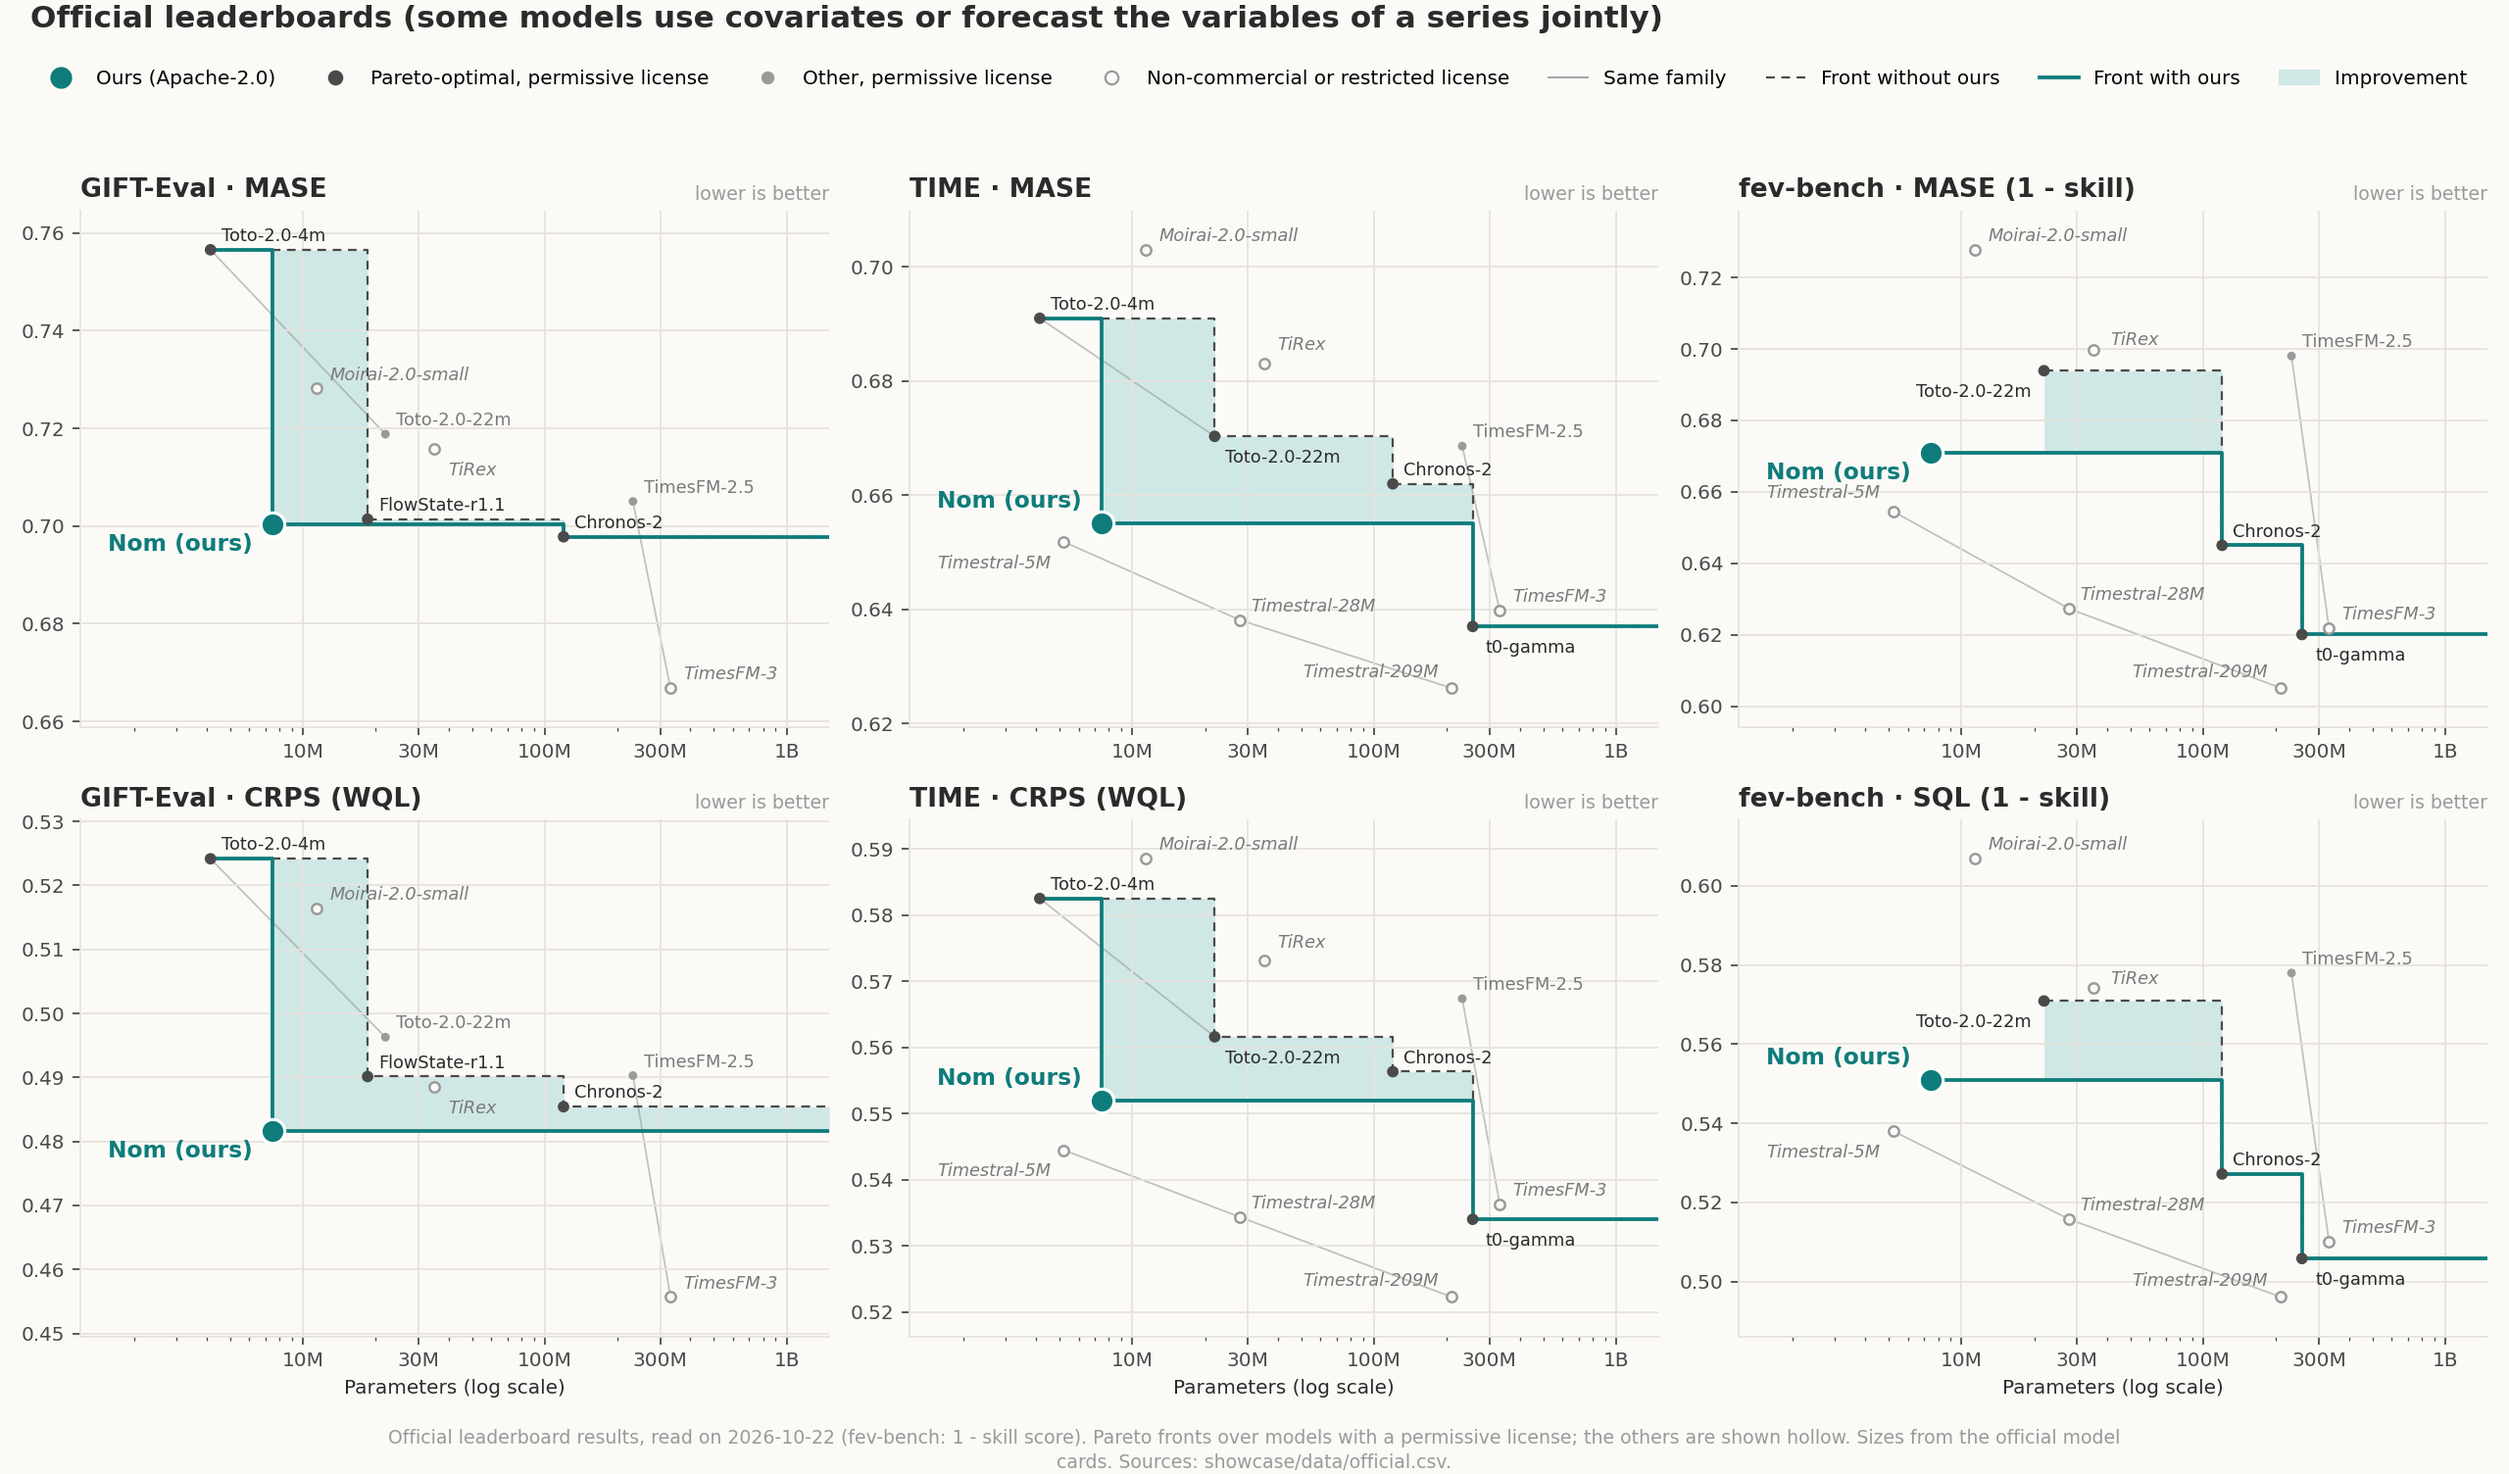
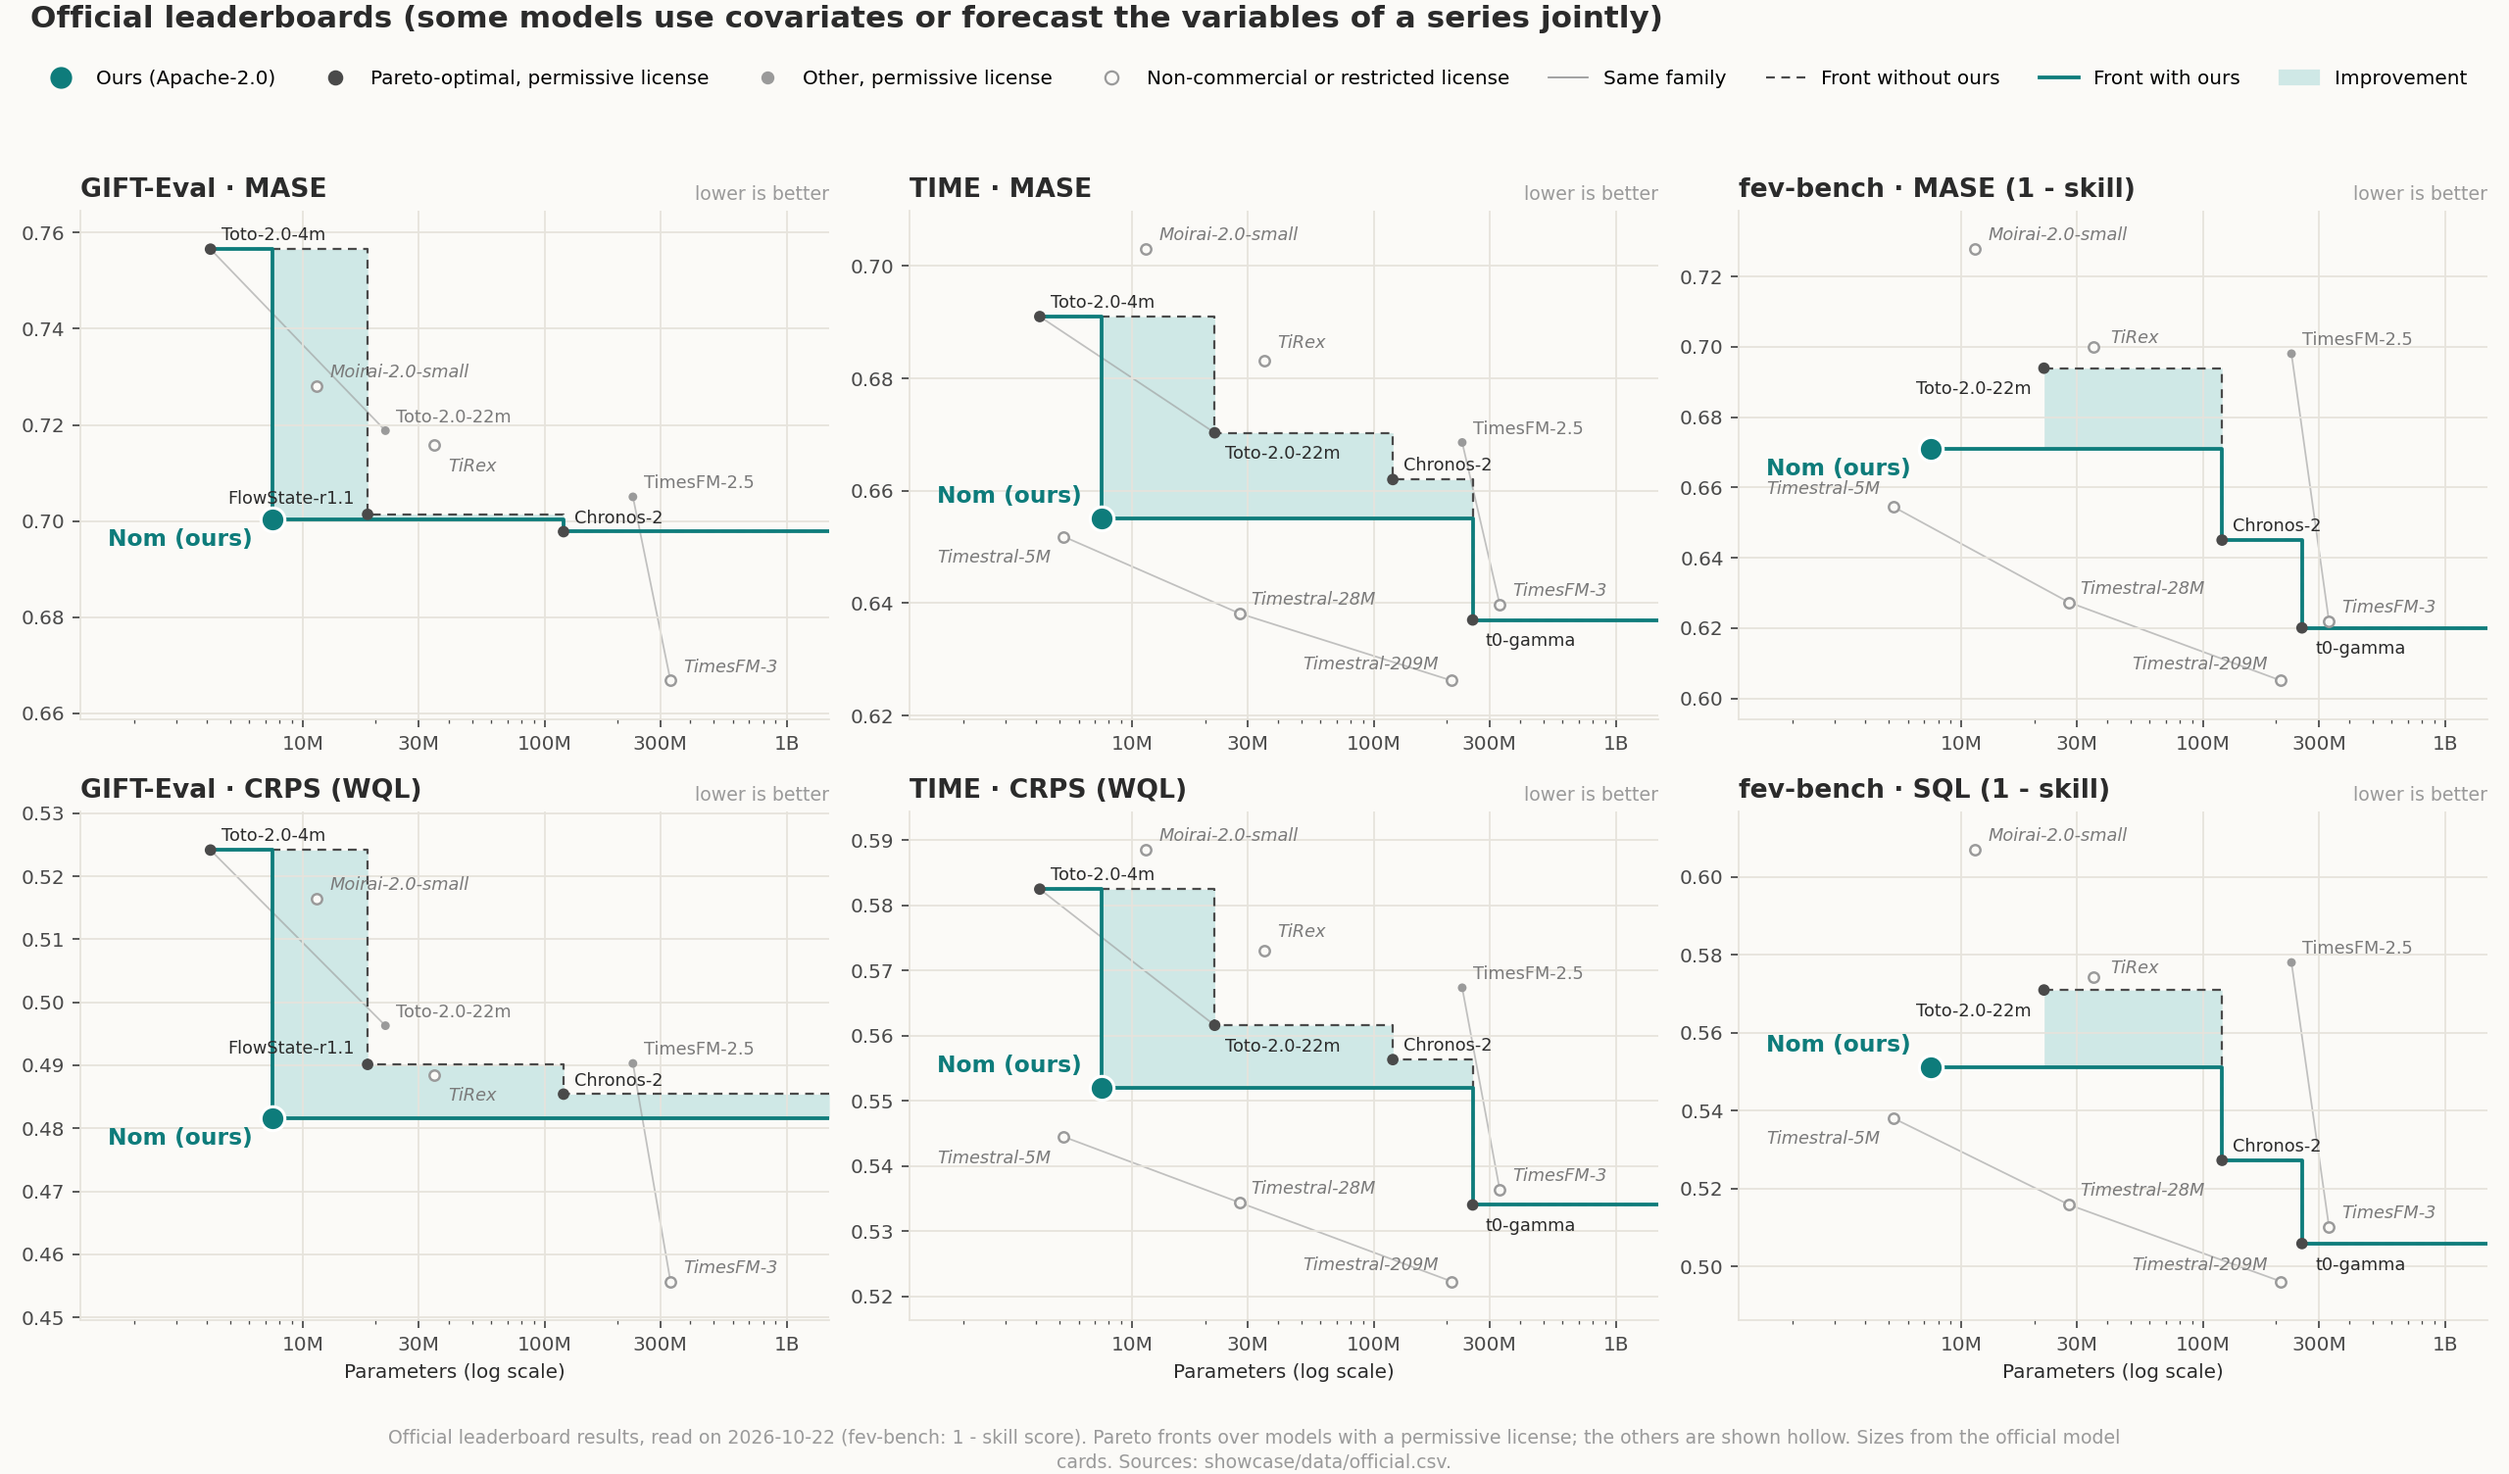
Univariate figure: FlowState-r1.1 and Moirai-2.0 (univariate by design, sources quoted), Toto-2.0-4m added to the forced runs; t0-gamma and TimesFM-3 noted as covariate models

diff --git a/showcase/render.py b/showcase/render.py
@@ -42,7 +42,8 @@ def _style(plt):
 LABEL_OFFSETS = {"t0-gamma": (-6, -12, "right"), "TimesFM-3": (6, 4, "left"), "Toto-2.0-22m": (5, -12, "left"),
                  "TiRex": (6, 6, "left"), "Timestral-5M": (-6, 6, "right"), "Timestral-209M": (6, -12, "left"),
                  "Moirai-2.0-small": (6, 4, "left")}
-LABEL_OFFSETS_BY_BENCH = {"GIFT-Eval": {"Toto-2.0-22m": (5, 4, "left"), "TiRex": (6, -12, "left")},
+LABEL_OFFSETS_BY_BENCH = {"GIFT-Eval": {"Toto-2.0-22m": (5, 4, "left"), "TiRex": (6, -12, "left"),
+                                        "FlowState-r1.1": (-6, 5, "right")},
                           "TIME": {"t0-gamma": (6, -12, "left"), "Timestral-209M": (-6, 5, "right"),
                                    "Timestral-5M": (-6, 6, "right")},
                           "fev-bench": {"t0-gamma": (6, -12, "left"), "Timestral-209M": (-6, 5, "right"),
@@ -55,8 +56,10 @@ OFFICIAL_NOTE = ("Official leaderboard results, read on 2026-10-22 (fev-bench: 1
                  "Sources: showcase/data/official.csv.")
 UNIVARIATE_TITLE = "Univariate setting: every model forecasts each series alone, without covariates"
 UNIVARIATE_NOTE = ("Our runs of each model in forced univariate mode with its public package (benchmarks/competitors.yaml); "
-                   "TiRex and TimesFM-2.5, univariate by design, from their official results. Pareto fronts over models "
-                   "with a permissive license; the others hollow. Sources: showcase/data/univariate.csv.")
+                   "TiRex, TimesFM-2.5, FlowState-r1.1 and Moirai-2.0, univariate by design, from their official results. "
+                   "t0-gamma and TimesFM-3 use covariates and were not run in this setting: see the official leaderboards "
+                   "figure. Pareto fronts over models with a permissive license; the others hollow. "
+                   "Sources: showcase/data/univariate.csv.")
 
 
 def pareto_figure(rows, models, ours_name, path, title=OFFICIAL_TITLE, note=OFFICIAL_NOTE):
@@ -149,8 +152,9 @@ def pareto_figure(rows, models, ours_name, path, title=OFFICIAL_TITLE, note=OFFI
     fig.suptitle(title, x=0.012, y=0.997, ha="left", fontsize=14, fontweight="bold", color=INK)
     fig.legend(handles=handles, loc="upper center", ncol=8, frameon=False, fontsize=9, bbox_to_anchor=(0.5, 0.965))
     import textwrap
-    fig.text(0.5, 0.004, "\n".join(textwrap.wrap(note, 190)), ha="center", fontsize=8.5, color=GREY, linespacing=1.4)
-    fig.tight_layout(rect=(0, 0.035, 1, 0.93))
+    lines = textwrap.wrap(note, 190)
+    fig.text(0.5, 0.004, "\n".join(lines), ha="center", fontsize=8.5, color=GREY, linespacing=1.4)
+    fig.tight_layout(rect=(0, 0.012 + 0.017 * len(lines), 1, 0.93))     # room for every line of the note
     os.makedirs(os.path.dirname(path), exist_ok=True)
     fig.savefig(path, dpi=160, metadata={"Software": None})
     plt.close(fig)

diff --git a/tests/test_competitors.py b/tests/test_competitors.py
@@ -13,7 +13,8 @@ def test_list_is_the_one_written_before_scoring():
     pytest.importorskip("yaml")
     c = competitors.load_list(os.path.join(ROOT, "benchmarks", "competitors.yaml"))
     assert [m["name"] for m in c["competitors"]] == ["Timestral-5M", "Timestral-28M", "Chronos-2", "TiRex",
-                                                     "TimesFM-2.5", "Toto-2.0-22m"]
+                                                     "TimesFM-2.5", "Toto-2.0-22m",
+                                                     "Toto-2.0-4m"]       # amendment of 2026-10-23
     for m in c["competitors"]:
         assert {"repo_id", "revision", "card_statement", "license", "package", "source"} <= set(m)
         assert len(m["revision"]) == 40
@@ -65,5 +66,6 @@ def test_result_folders_per_benchmark():
 def test_univariate_runs_on_fev_and_time_are_listed():
     pytest.importorskip("yaml")
     c = competitors.load_list(os.path.join(ROOT, "benchmarks", "competitors.yaml"))
-    assert c["fev_time_univariate_runs"] == ["Chronos-2", "Toto-2.0-22m", "Timestral-5M", "Timestral-28M"]
-    assert c["natively_univariate"] == ["TiRex", "TimesFM-2.5"]
+    assert c["fev_time_univariate_runs"] == ["Chronos-2", "Toto-2.0-22m", "Timestral-5M", "Timestral-28M",
+                                           "Toto-2.0-4m"]
+    assert c["natively_univariate"] == ["TiRex", "TimesFM-2.5", "FlowState-r1.1", "Moirai-2.0-small"]

diff --git a/showcase/build.py b/showcase/build.py
@@ -233,7 +233,9 @@ def main():
     write_csv(os.path.join(HERE, "data", "official.csv"), rows)
     lst = load_models()
     meta = {m["name"]: m for m in lst["models"]}
-    uni = univariate_rows(rows, computed_univariate(), {"TiRex", "TimesFM-2.5"}, lst["ours"]["name"], meta)
+    from benchmarks.competitors import load_list
+    native = set(load_list(os.path.join(ROOT, "benchmarks", "competitors.yaml"))["natively_univariate"])
+    uni = univariate_rows(rows, computed_univariate(), native, lst["ours"]["name"], meta)
     write_csv(os.path.join(HERE, "data", "univariate.csv"), uni)
     write_csv(os.path.join(HERE, "data", "same_protocol.csv"), same_protocol())
     print(f"{len(rows)} official values -> showcase/data/official.csv")

diff --git a/benchmarks/competitors.py b/benchmarks/competitors.py
@@ -174,7 +174,8 @@ def result_name(name: str, variant: str | None) -> str:
 
 
 LOADERS = {"Timestral-5M": timestral, "Timestral-28M": timestral, "Chronos-2": chronos2, "TiRex": tirex,
-           "TimesFM-2.5": timesfm25, "Toto-2.0-22m": toto2}
+           "TimesFM-2.5": timesfm25, "Toto-2.0-22m": toto2,
+           "Toto-2.0-4m": toto2}
 
 
 def main():

diff --git a/README.md b/README.md
@@ -25,9 +25,11 @@ On the fev-bench leaderboard this ranks 7 of 33 (SQL) and 6 of 33 (MASE) among t
 ### Univariate setting: every model forecasts each series alone
 
 This model forecasts each series on its own, without covariates. Here every model is compared in that same setting:
-we ran Chronos-2, Toto-2.0, TiRex and Timestral in forced univariate mode with their public packages; TiRex and
-TimesFM-2.5 forecast each series alone by design (official results used where we did not run them). The list and the
-settings were written before any score (`benchmarks/competitors.yaml`).
+we ran Chronos-2, Toto-2.0 (4m and 22m), TiRex and Timestral in forced univariate mode with their public packages;
+TiRex, TimesFM-2.5, FlowState-r1.1 and Moirai-2.0 forecast each series alone by design (official results used where we
+did not run them). The first list and its settings were written before any score; the models added later, to match the
+official figure, are dated amendments with the source of each decision (`benchmarks/competitors.yaml`). t0-gamma and
+TimesFM-3 use covariates and were not run in this setting; they appear in the official figure below.
 
 <p align="center"><img src="showcase/figures/univariate.png" alt="Accuracy against size, univariate setting" width="100%"></p>
 
@@ -35,6 +37,8 @@ settings were written before any score (`benchmarks/competitors.yaml`).
 |---|---|---|---|---|---|---|---|
 | Timestral-5M | 5.2M | Modified MIT (revenue cap) | 0.7102 | 0.4836 | 0.6571 | 0.5490 | 44.36 |
 | **Nom (ours)** | 7.5M | Apache-2.0 | 0.7003 | 0.4816 | 0.6551 | 0.5520 | 44.90 |
+| Moirai-2.0-small | 11.4M | CC-BY-NC-4.0 | 0.7281 | 0.5164 | 0.7030 | 0.5885 | 39.31 |
+| FlowState-r1.1 | 18.5M | Apache-2.0 | 0.7014 | 0.4901 |  |  |  |
 | Toto-2.0-22m | 21.9M | Apache-2.0 | 0.7226 | 0.5009 | 0.6751 | 0.5654 | 42.37 |
 | Timestral-28M | 27.8M | Modified MIT (revenue cap) | 0.6817 | 0.4641 | 0.6455 | 0.5408 | 45.86 |
 | TiRex | 35.0M | NX-AI Community License | 0.7213 | 0.4921 | 0.6831 | 0.5731 | 42.58 |

diff --git a/showcase/README.template.md b/showcase/README.template.md
@@ -17,9 +17,11 @@ Headline numbers of this package (float32), computed with each benchmark's offic
 ### Univariate setting: every model forecasts each series alone
 
 This model forecasts each series on its own, without covariates. Here every model is compared in that same setting:
-we ran Chronos-2, Toto-2.0, TiRex and Timestral in forced univariate mode with their public packages; TiRex and
-TimesFM-2.5 forecast each series alone by design (official results used where we did not run them). The list and the
-settings were written before any score (`benchmarks/competitors.yaml`).
+we ran Chronos-2, Toto-2.0 (4m and 22m), TiRex and Timestral in forced univariate mode with their public packages;
+TiRex, TimesFM-2.5, FlowState-r1.1 and Moirai-2.0 forecast each series alone by design (official results used where we
+did not run them). The first list and its settings were written before any score; the models added later, to match the
+official figure, are dated amendments with the source of each decision (`benchmarks/competitors.yaml`). t0-gamma and
+TimesFM-3 use covariates and were not run in this setting; they appear in the official figure below.
 
 <p align="center"><img src="showcase/figures/univariate.png" alt="Accuracy against size, univariate setting" width="100%"></p>
 

diff --git a/MODEL_CARD.md b/MODEL_CARD.md
@@ -59,6 +59,8 @@ a permissive license, the others shown hollow.
 |---|---|---|---|---|---|---|---|
 | Timestral-5M | 5.2M | Modified MIT (revenue cap) | 0.7102 | 0.4836 | 0.6571 | 0.5490 | 44.36 |
 | **Nom (ours)** | 7.5M | Apache-2.0 | 0.7003 | 0.4816 | 0.6551 | 0.5520 | 44.90 |
+| Moirai-2.0-small | 11.4M | CC-BY-NC-4.0 | 0.7281 | 0.5164 | 0.7030 | 0.5885 | 39.31 |
+| FlowState-r1.1 | 18.5M | Apache-2.0 | 0.7014 | 0.4901 |  |  |  |
 | Toto-2.0-22m | 21.9M | Apache-2.0 | 0.7226 | 0.5009 | 0.6751 | 0.5654 | 42.37 |
 | Timestral-28M | 27.8M | Modified MIT (revenue cap) | 0.6817 | 0.4641 | 0.6455 | 0.5408 | 45.86 |
 | TiRex | 35.0M | NX-AI Community License | 0.7213 | 0.4921 | 0.6831 | 0.5731 | 42.58 |
